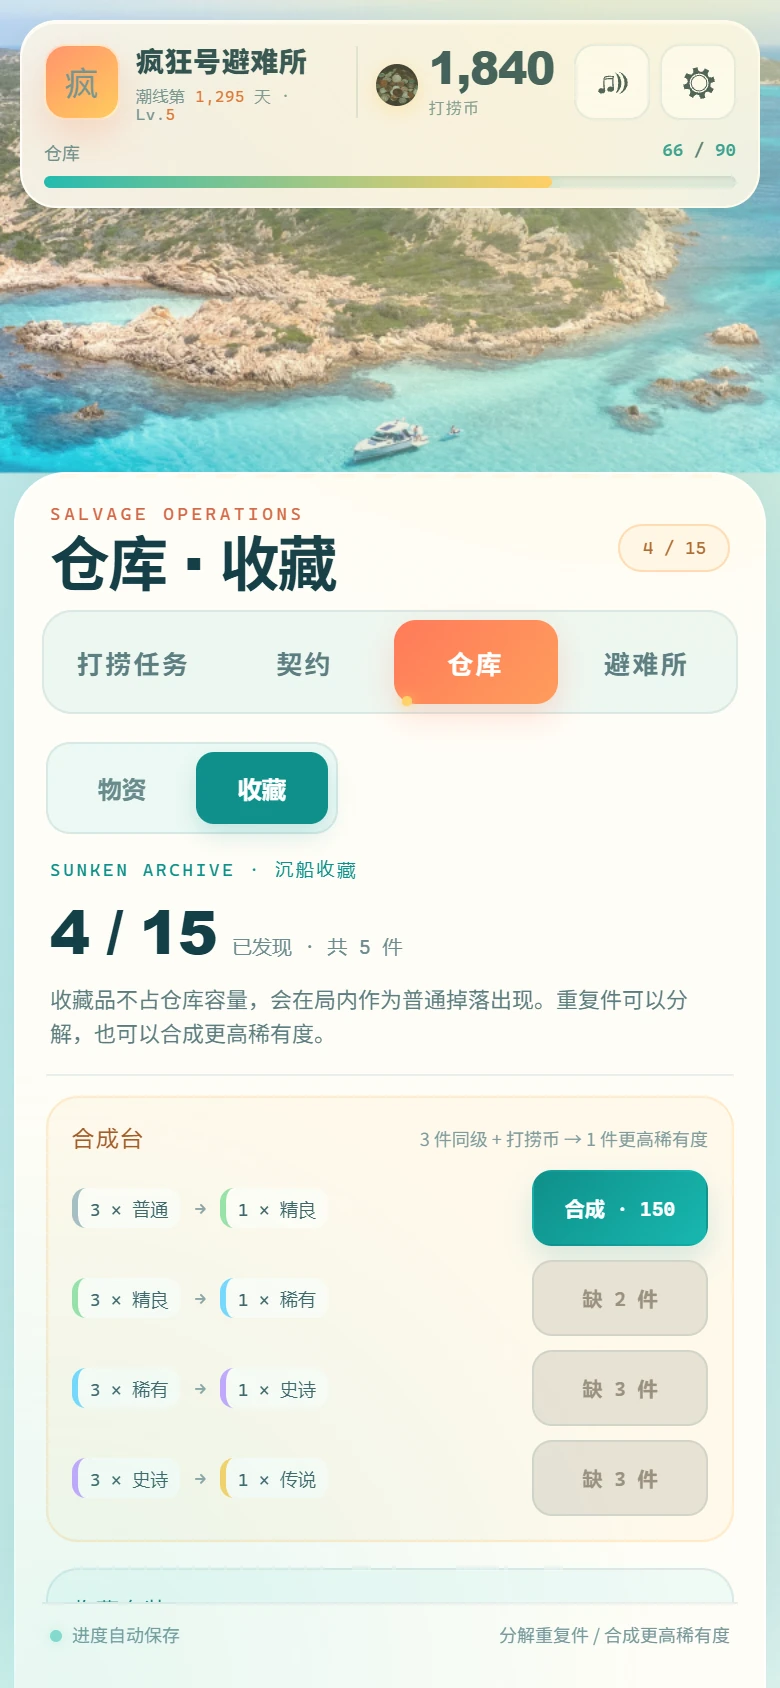
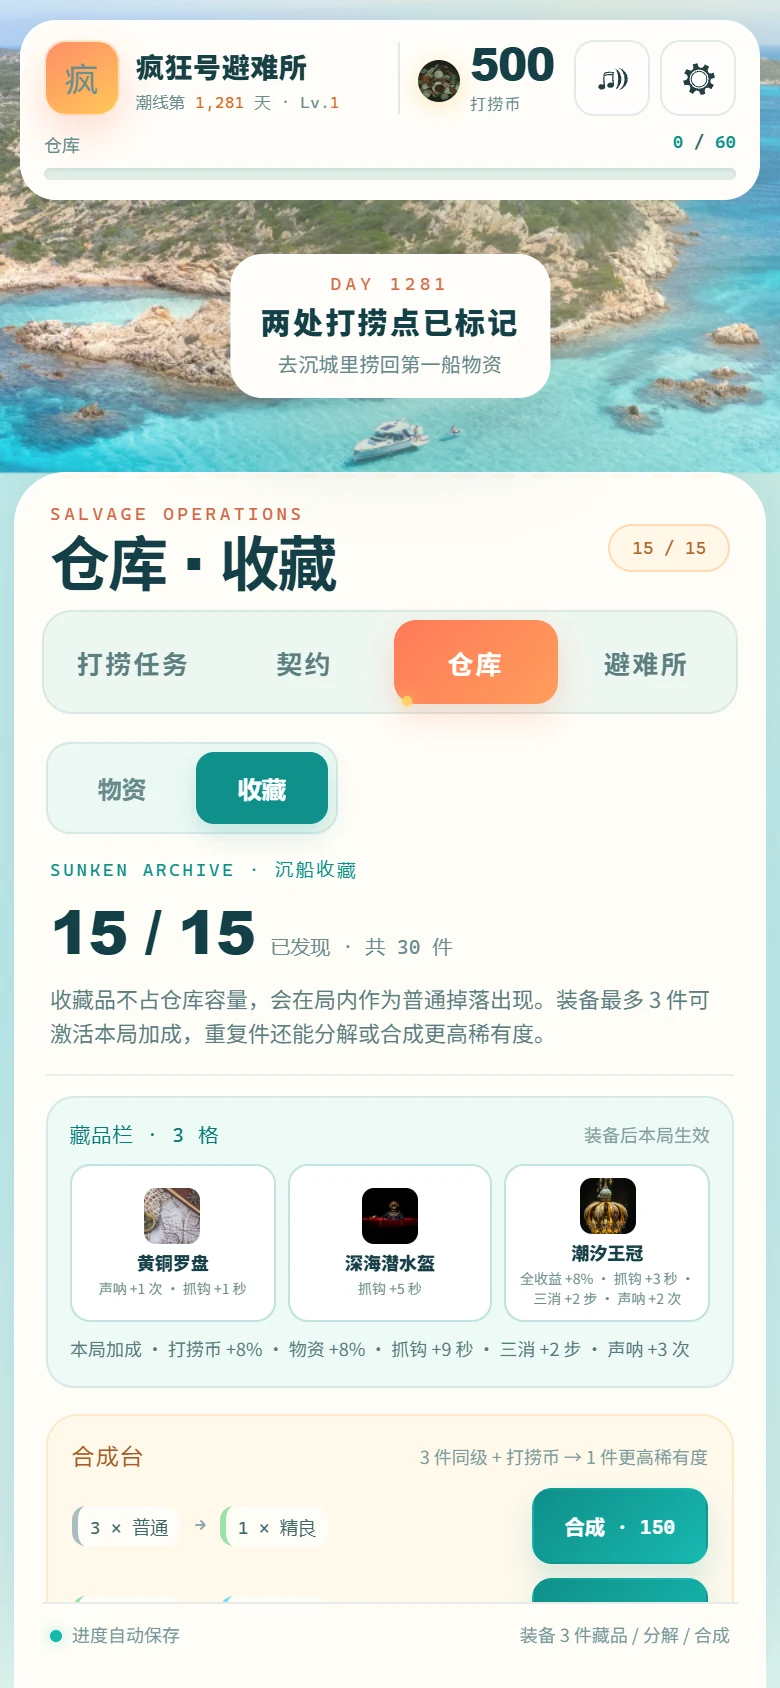
v5.1: 藏品栏装备系统，收藏可用于本局加成

diff --git a/js/hub.js b/js/hub.js
@@ -342,6 +342,7 @@
       filters: 0,
       filterPity: 0,
       collectibles: {},
+      equipped: [],
       contracts: makeContractSet(),
       contractRound: 1,
       contractRerollUsed: false,
@@ -380,6 +381,13 @@
         if (!CW.COLLECTIBLE_MAP[cid]) continue;
         var cnum = Math.floor(Number(raw.collectibles[cid]) || 0);
         if (cnum > 0) data.collectibles[cid] = Math.min(9999, cnum);
+      }
+    }
+    data.equipped = [];
+    if (Array.isArray(raw.equipped)) {
+      for (var eq = 0; eq < raw.equipped.length && data.equipped.length < 3; eq++) {
+        var eid = raw.equipped[eq];
+        if (data.collectibles[eid] > 0 && data.equipped.indexOf(eid) < 0) data.equipped.push(eid);
       }
     }
     data.achievements = {};
@@ -526,17 +534,78 @@
     for (var i = 0; i < MATERIALS.length; i++) sum += this.data.materials[MATERIALS[i].id] || 0;
     return sum;
   };
+  Hub.prototype.collectionRelicBonuses = function () {
+    var out = { credit: 0, mat: 0, time: 0, moves: 0, probes: 0 };
+    var list = this.data.equipped || [];
+    for (var i = 0; i < list.length && i < 3; i++) {
+      var id = list[i];
+      if (!(this.data.collectibles[id] > 0)) continue;
+      var relic = CW.COLLECTIBLE_RELICS[id];
+      if (!relic) continue;
+      out.credit += relic.bonus.credit || 0;
+      out.mat += relic.bonus.mat || 0;
+      out.time += relic.bonus.time || 0;
+      out.moves += relic.bonus.moves || 0;
+      out.probes += relic.bonus.probes || 0;
+    }
+    return out;
+  };
+
+  Hub.prototype.collectionEquip = function (id) {
+    var def = CW.COLLECTIBLE_MAP[id];
+    if (!def || !((this.data.collectibles || {})[id] > 0)) return;
+    if (!Array.isArray(this.data.equipped)) this.data.equipped = [];
+    if (this.data.equipped.indexOf(id) >= 0) {
+      this.collectionUnequip(id);
+      return;
+    }
+    if (this.data.equipped.length >= 3) {
+      this.audio.warn();
+      this.showToast('ARCHIVE FULL', '藏品栏已满', '先卸下一件藏品再装备');
+      return;
+    }
+    this.data.equipped.push(id);
+    this.audio.craft();
+    this.showToast('RELIC EQUIPPED', def.name, CW.COLLECTIBLE_RELICS[id] ? CW.COLLECTIBLE_RELICS[id].label : '已装备');
+    this.saveGame();
+    this.updateUI();
+    this.renderPanel();
+  };
+
+  Hub.prototype.collectionUnequip = function (id) {
+    if (!Array.isArray(this.data.equipped)) return;
+    var at = this.data.equipped.indexOf(id);
+    if (at < 0) return;
+    this.data.equipped.splice(at, 1);
+    this.audio.click();
+    this.saveGame();
+    this.updateUI();
+    this.renderPanel();
+  };
+
+  Hub.prototype.collectionCleanupEquipped = function () {
+    if (!Array.isArray(this.data.equipped)) { this.data.equipped = []; return; }
+    var out = [];
+    for (var i = 0; i < this.data.equipped.length && out.length < 3; i++) {
+      var id = this.data.equipped[i];
+      if ((this.data.collectibles[id] || 0) > 0 && out.indexOf(id) < 0) out.push(id);
+    }
+    this.data.equipped = out;
+  };
+
   Hub.prototype.creditMult = function () {
     var setBonus = this.collectionSetBonuses();
-    return 1 + (this.data.upgrades.workshop || 0) * 0.1 + (this.data.upgrades.purifier || 0) * 0.1 + setBonus.credit;
+    var relic = this.collectionRelicBonuses();
+    return 1 + (this.data.upgrades.workshop || 0) * 0.1 + (this.data.upgrades.purifier || 0) * 0.1 + setBonus.credit + relic.credit;
   };
   Hub.prototype.materialMult = function () {
     var setBonus = this.collectionSetBonuses();
-    return 1 + (this.data.upgrades.sonar || 0) * 0.12 + (this.data.upgrades.purifier || 0) * 0.05 + setBonus.mat;
+    var relic = this.collectionRelicBonuses();
+    return 1 + (this.data.upgrades.sonar || 0) * 0.12 + (this.data.upgrades.purifier || 0) * 0.05 + setBonus.mat + relic.mat;
   };
-  Hub.prototype.hookTime = function () { return 60 + (this.data.upgrades.core || 0) * 5; };
-  Hub.prototype.matchMoves = function () { return 30 + (this.data.upgrades.core || 0) * 2; };
-  Hub.prototype.sonarProbes = function () { return 10 + Math.floor((this.data.upgrades.core || 0) / 2); };
+  Hub.prototype.hookTime = function () { return 60 + (this.data.upgrades.core || 0) * 5 + this.collectionRelicBonuses().time; };
+  Hub.prototype.matchMoves = function () { return 30 + (this.data.upgrades.core || 0) * 2 + this.collectionRelicBonuses().moves; };
+  Hub.prototype.sonarProbes = function () { return 10 + Math.floor((this.data.upgrades.core || 0) / 2) + this.collectionRelicBonuses().probes; };
   Hub.prototype.dayNumber = function () { return 1281 + this.data.runs * 2; };
 
   /* ── resize / layout ─────────────────────────────────────── */
@@ -699,7 +768,7 @@
       this.dom.panelTitle.textContent = this.warehouseView === 'collection' ? '仓库 · 收藏' : '仓库 · 物资';
       if (this.warehouseView === 'collection') {
         this.dom.panelTag.textContent = this.collectionUnique() + ' / ' + CW.COLLECTIBLES.length;
-        this.dom.panelNote.textContent = '分解重复件 / 合成更高稀有度';
+        this.dom.panelNote.textContent = '装备 3 件藏品 / 分解 / 合成';
       } else {
         this.dom.panelTag.textContent = used + ' / ' + cap;
         this.dom.panelNote.textContent = '超出容量的物资会折算成打捞币';
@@ -1081,6 +1150,7 @@
     this.data.collectibles[id] -= 1;
     if (this.data.collectibles[id] <= 0) delete this.data.collectibles[id];
     var gained = this.grantContractReward({ credits: 0, mats: yieldMats });
+    this.collectionCleanupEquipped();
     this.saveGame();
     this.updateUI();
     this.renderPanel();
@@ -1109,7 +1179,13 @@
         source.push({ id: item.id, count: this.data.collectibles[item.id] });
       }
     }
-    source.sort(function (a, b) { return b.count - a.count; });
+    var equippedNow = Array.isArray(this.data.equipped) ? this.data.equipped : [];
+    source.sort(function (a, b) {
+      var ae = equippedNow.indexOf(a.id) >= 0 ? 1 : 0;
+      var be = equippedNow.indexOf(b.id) >= 0 ? 1 : 0;
+      if (ae !== be) return ae - be;
+      return b.count - a.count;
+    });
     var left = 3;
     for (var k = 0; k < source.length && left > 0; k++) {
       var take = Math.min(left, source[k].count);
@@ -1121,6 +1197,7 @@
     var result = pool[(Math.random() * pool.length) | 0];
     this.data.collectibles[result.id] = (this.data.collectibles[result.id] || 0) + 1;
     this.data.credits -= recipe.cost;
+    this.collectionCleanupEquipped();
     this.saveGame();
     this.updateUI();
     this.renderPanel();
@@ -1176,11 +1253,35 @@
     var unique = this.collectionUnique();
     var total = this.collectionTotal();
     var map = this.data.collectibles || {};
+    var equipped = Array.isArray(this.data.equipped) ? this.data.equipped : [];
+    var relic = this.collectionRelicBonuses();
+    var bonusParts = [];
+    if (relic.credit) bonusParts.push('打捞币 +' + Math.round(relic.credit * 100) + '%');
+    if (relic.mat) bonusParts.push('物资 +' + Math.round(relic.mat * 100) + '%');
+    if (relic.time) bonusParts.push('抓钩 +' + relic.time + ' 秒');
+    if (relic.moves) bonusParts.push('三消 +' + relic.moves + ' 步');
+    if (relic.probes) bonusParts.push('声呐 +' + relic.probes + ' 次');
+    var relicHtml = '<div class="relic-board"><div class="relic-head"><span>藏品栏 · 3 格</span><small>装备后本局生效</small></div><div class="relic-slots">';
+    for (var rs = 0; rs < 3; rs++) {
+      var rid = equipped[rs];
+      var rdef = rid ? CW.COLLECTIBLE_MAP[rid] : null;
+      if (rdef) {
+        var rpower = CW.COLLECTIBLE_RELICS[rid];
+        relicHtml += '<button class="relic-slot filled" data-action="equip-collectible" data-id="' + rid + '" title="点击卸下">' +
+          '<img src="' + rdef.icon + '" alt=""><b>' + rdef.name + '</b><span>' + (rpower ? rpower.label : '') + '</span>' +
+        '</button>';
+      } else {
+        relicHtml += '<div class="relic-slot empty"><b>+</b><span>空槽</span></div>';
+      }
+    }
+    relicHtml += '</div><div class="relic-bonus">' +
+      (bonusParts.length ? '本局加成 · ' + bonusParts.join(' · ') : '尚未装备藏品 · 在下方收藏卡点击「装备」') +
+      '</div></div>';
     var html = this.warehouseSwitch() + '<div class="collection-summary">' +
       '<span class="collection-kicker">SUNKEN ARCHIVE · 沉船收藏</span>' +
       '<div class="collection-headline"><b>' + unique + ' / ' + CW.COLLECTIBLES.length + '</b><span>已发现 · 共 ' + total + ' 件</span></div>' +
-      '<p>收藏品不占仓库容量，会在局内作为普通掉落出现。重复件可以分解，也可以合成更高稀有度。</p>' +
-      '</div><div class="craft-board">' +
+      '<p>收藏品不占仓库容量，会在局内作为普通掉落出现。装备最多 3 件可激活本局加成，重复件还能分解或合成更高稀有度。</p>' +
+      '</div>' + relicHtml + '<div class="craft-board">' +
       '<div class="craft-head"><span>合成台</span><small>3 件同级 + 打捞币 → 1 件更高稀有度</small></div><div class="craft-list">';
     for (var r = 0; r < CW.CRAFT_RECIPES.length; r++) {
       var rec = CW.CRAFT_RECIPES[r];
@@ -1226,10 +1327,16 @@
       for (var g = 0; g < group.length; g++) {
         var item = group[g];
         var n = map[item.id] || 0;
-        html += '<article class="collectible-card' + (n ? '' : ' unknown') + '" title="' + item.desc + '" style="--rarity:' + rarity.color + '">' +
+        var isEquipped = equipped.indexOf(item.id) >= 0;
+        var relicInfo = CW.COLLECTIBLE_RELICS[item.id];
+        html += '<article class="collectible-card' + (n ? '' : ' unknown') + (isEquipped ? ' equipped' : '') + '" title="' + item.desc + (relicInfo ? ' · ' + relicInfo.label : '') + '" style="--rarity:' + rarity.color + '">' +
           '<span class="collectible-art"><img src="' + item.icon + '" alt=""></span>' +
-          '<span class="collectible-copy"><b>' + item.name + '</b><em>' + (n ? '×' + n : '未发现') + '</em></span>' +
-          (n ? '<button class="collectible-dismantle" data-action="dismantle" data-id="' + item.id + '" title="分解 1 件为材料">分解</button>' : '') +
+          '<span class="collectible-copy"><b>' + item.name + '</b><em>' + (n ? '×' + n : '未发现') + '</em>' +
+            (n && relicInfo ? '<span class="collectible-power">' + relicInfo.label + '</span>' : '') + '</span>' +
+          (n ? '<span class="collectible-actions">' +
+            '<button class="collectible-equip' + (isEquipped ? ' active' : '') + '" data-action="equip-collectible" data-id="' + item.id + '">' + (isEquipped ? '卸下' : '装备') + '</button>' +
+            '<button class="collectible-dismantle" data-action="dismantle" data-id="' + item.id + '" title="分解 1 件为材料">分解</button>' +
+          '</span>' : '') +
         '</article>';
       }
       html += '</div></section>';
@@ -1688,7 +1795,8 @@
           self.warehouseView = actionEl.getAttribute('data-view');
           self.audio.click();
           self.renderPanel();
-        } else if (action === 'dismantle') self.dismantle(actionEl.getAttribute('data-id'));
+        } else if (action === 'equip-collectible') self.collectionEquip(actionEl.getAttribute('data-id'));
+        else if (action === 'dismantle') self.dismantle(actionEl.getAttribute('data-id'));
         return;
       }
       var tabEl = e.target.closest ? e.target.closest('[data-tab]') : null;

diff --git a/css/style.css b/css/style.css
@@ -1593,6 +1593,32 @@ body::after {
 .collectible-copy em { font-size: 9px; }
 .collectible-dismantle { min-width: 36px; min-height: 32px; border-radius: 8px; font-size: 9px; border-color: rgba(255, 122, 89, 0.24); background: #fff2ec; color: #c46042; }
 .collection-note { font-size: 9px; color: #86a2a3; }
+.relic-board { margin: 10px 0 13px; padding: 11px; border: 1px solid rgba(19, 93, 96, 0.11); border-radius: 14px; background: #eefaf6; }
+.relic-head { display: flex; align-items: baseline; justify-content: space-between; gap: 8px; }
+.relic-head span { font-family: var(--mono); font-size: 10px; letter-spacing: 0.06em; color: #0d7774; }
+.relic-head small { font-size: 9px; color: #7f9b9c; }
+.relic-slots { display: grid; grid-template-columns: repeat(3, minmax(0, 1fr)); gap: 6px; margin-top: 8px; }
+.relic-slot { min-width: 0; min-height: 66px; padding: 6px 5px; border: 1px solid rgba(19, 93, 96, 0.12); border-radius: 10px; background: #fffdf8; text-align: center; color: #3f6468; }
+.relic-slot.filled { border-color: rgba(15, 143, 138, 0.26); background: #fff; }
+.relic-slot img { width: 28px; height: 28px; border-radius: 6px; object-fit: cover; display: block; margin: 0 auto 3px; }
+.relic-slot b { display: block; overflow: hidden; font-size: 9px; color: #173f47; white-space: nowrap; text-overflow: ellipsis; }
+.relic-slot span { display: block; margin-top: 2px; font-size: 7px; line-height: 1.35; color: #6e8d8f; }
+.relic-slot.empty { display: grid; place-items: center; align-content: center; border-style: dashed; background: rgba(255, 253, 248, 0.5); color: #9ab0ae; }
+.relic-slot.empty b { font-family: var(--mono); font-size: 18px; color: #a8bcb8; }
+.relic-bonus { margin-top: 7px; font-size: 9px; line-height: 1.5; color: #567a7d; }
+.collectible-card.equipped { border-color: #18b8b0; background: #f0fbf6; box-shadow: 0 0 0 1px rgba(24, 184, 176, 0.18) inset; }
+.collectible-power { overflow: hidden; font-size: 8px; line-height: 1.35; color: #8a6a33; white-space: nowrap; text-overflow: ellipsis; }
+.collectible-actions { display: flex; flex: 0 0 auto; flex-direction: column; gap: 3px; }
+.collectible-equip { min-width: 36px; min-height: 27px; padding: 0 4px; border: 1px solid rgba(15, 143, 138, 0.22); border-radius: 7px; background: #eaf9f4; color: #0b7774; font-family: var(--mono); font-size: 8px; font-weight: 700; }
+.collectible-equip.active { border-color: #18b8b0; background: #18b8b0; color: #fff; }
+.collectible-equip:hover { background: #dff7ee; }
+.collectible-equip.active:hover { background: #0f8f8a; }
+.collectible-actions .collectible-dismantle { min-width: 36px; min-height: 27px; }
+@media (max-width: 380px) {
+  .relic-slot { min-height: 62px; }
+  .collectible-power { font-size: 7px; }
+  .collectible-equip, .collectible-actions .collectible-dismantle { min-width: 32px; min-height: 26px; font-size: 7px; }
+}
 
 /* Shelter */
 .shelter-head { margin-bottom: 12px; padding: 12px 14px; border: 1px solid rgba(19, 93, 96, 0.1); border-radius: 15px; background: #eefaf6; }

diff --git a/js/collectibles.js b/js/collectibles.js
@@ -78,6 +78,26 @@
     }
   ];
 
+  // Equippable relic effects. Every owned collectible can be placed in one of
+  // three archive slots; the bonus is passive while equipped.
+  CW.COLLECTIBLE_RELICS = {
+    'rusty-watch': { label: '抓钩 +2 秒', bonus: { time: 2 } },
+    'brass-key': { label: '声呐 +1 次', bonus: { probes: 1 } },
+    'sea-bottle': { label: '物资 +2%', bonus: { mat: 0.02 } },
+    'old-coin': { label: '打捞币 +2%', bonus: { credit: 0.02 } },
+    'crew-badge': { label: '三消 +1 步', bonus: { moves: 1 } },
+    'brass-compass': { label: '声呐 +1 次 · 抓钩 +1 秒', bonus: { probes: 1, time: 1 } },
+    'waterproof-camera': { label: '打捞币 +3%', bonus: { credit: 0.03 } },
+    'chart-tube': { label: '抓钩 +4 秒', bonus: { time: 4 } },
+    'copper-telescope': { label: '三消 +2 步', bonus: { moves: 2 } },
+    'silver-musicbox': { label: '打捞币 +5%', bonus: { credit: 0.05 } },
+    'diving-helmet': { label: '抓钩 +5 秒', bonus: { time: 5 } },
+    'ship-bell': { label: '声呐 +2 次', bonus: { probes: 2 } },
+    'captain-log': { label: '抓钩 +2 秒 · 三消 +2 步', bonus: { time: 2, moves: 2 } },
+    'black-box': { label: '打捞币 +6% · 声呐 +1 次', bonus: { credit: 0.06, probes: 1 } },
+    'tide-crown': { label: '全收益 +8% · 抓钩 +3 秒 · 三消 +2 步 · 声呐 +2 次', bonus: { credit: 0.08, mat: 0.08, time: 3, moves: 2, probes: 2 } }
+  };
+
   CW.collectiblesOfRarity = function (rarity) {
     var out = [];
     for (var k = 0; k < COLLECTIBLES.length; k++) {

diff --git a/index.html b/index.html
@@ -133,7 +133,7 @@
       </div>
       <div class="title-footer">
         <span>海岸实景素材 · 本地图片 · 无离线收益</span>
-        <span>v5.0 · PURE STATIC</span>
+        <span>v5.1 · PURE STATIC</span>
       </div>
     </section>
 
@@ -218,7 +218,7 @@
         <button class="btn ghost wide" data-action="guide">查看玩法说明</button>
         <button id="reset-save" class="btn danger wide" data-action="reset-save">清空避难所</button>
         <p class="modal-note">清空会删除打捞币、物资和所有扩建，无法撤销。再次点击确认。</p>
-        <p class="version">疯狂水世界 · v5.0 · 本地图片素材 + 程序化特效，无远程依赖</p>
+        <p class="version">疯狂水世界 · v5.1 · 本地图片素材 + 程序化特效，无远程依赖</p>
       </div>
     </section>
 
@@ -292,6 +292,7 @@
   </main>
 </body>
 </html>
+
 
 
 

diff --git a/js/arcade.js b/js/arcade.js
@@ -569,6 +569,9 @@
     if (this.permit) {
       chips += '<span class="summary-chip permit" style="--tone:' + this.permit.color + '">许可 · ' + this.permit.name + '</span>';
     }
+    if (this.hub.data.equipped && this.hub.data.equipped.length) {
+      chips += '<span class="summary-chip relic" style="--tone:#18b8b0">藏品 · ' + this.hub.data.equipped.length + ' 件</span>';
+    }
     for (var i = 0; i < MATERIALS.length; i++) {
       var m = MATERIALS[i];
       var n = this.applied.stored[m.id] || 0;

diff --git a/DESIGN.md b/DESIGN.md
@@ -1,6 +1,6 @@
 # 疯狂水世界 · 游戏设计文档
 
-> 版本：5.0 · 类型：海岸打捞 / 小游戏合集 / 轻松经营  
+> 版本：5.1 · 类型：海岸打捞 / 小游戏合集 / 轻松经营  
 > 平台：桌面与移动端浏览器 · 单局 1–3 分钟 · 无离线收益
 
 ---
@@ -292,6 +292,10 @@ HUD 以「末日第 1,281 天」计量时间，每完成一局打捞推进 2 天
 - 三个小游戏都能在同一局里同时产出消耗品与收藏品。
 - 稀有度权重：普通 52 / 精良 27 / 稀有 13 / 史诗 6 / 传说 2。
 - 仓库与收藏合并为一个「仓库」标签，内部用「物资 / 收藏」切换。
+- 每件收藏都有独立的**出航加成**；存档新增 `equipped: [id, id, id]`，最多装备 3 件，不消耗本体。
+- 藏品栏 3 格：普通偏单项（+2 秒 / +1 声呐 / +1 步 / +2% 收益），精良与稀有提高数值，史诗与传说提供复合加成。
+- 装备加成直接进入 `hookTime / matchMoves / sonarProbes / creditMult / materialMult`，与套装、海况、出航许可相乘或相加。
+- 分解或合成消耗掉装备中的最后一件时，自动从藏品栏移除。
 - 重复收藏可分解为材料：普通 2 铁 + 1 纤维；精良 3 铁 + 1 芯片；稀有 4 铁 + 1 燃料 + 2 芯片；史诗 / 传说更高。
 - 合成台：3 件同稀有度 + 打捞币 → 1 件下一稀有度；费用 150 / 400 / 1,000 / 2,500。
 - 合成随机产出下一稀有度的任意收藏；重复件优先消耗数量最多的藏品。
@@ -451,6 +455,7 @@ CREDITS.md                        图片与图标授权
 ---
 
 所有核心数值集中在 `js/hub.js`、`js/arcade.js`、`js/match.js` 顶部，方便直接调整并重新平衡。过滤器出现率分别在 `HookGame.buildField`（12%）和 `MatchGame.finish`（5%）中调整。
+
 
 
 

diff --git a/README.md b/README.md
@@ -180,7 +180,20 @@
   - 三消：每盘固定混入 2 个收藏品方块，和废料方块一样消除获得。
   - 声呐：每个普通货箱约 15% 直接是收藏品，找到货箱即获得。
 - 因此三个小游戏里都能同时刷出消耗品和收藏品，收藏品不是独立掉落事件。
-- 收藏品**不占仓库容量**，重复件可以分解或合成。
+- 收藏品**不占仓库容量**；每件藏品都有独立的**出航加成**，最多装备 3 件。
+- 例如锈蚀怀表 +2 秒、旧船门钥声呐 +1 次、海水玻璃瓶物资 +2%、潮汐王冠全收益 +8% 且三项次数都增加。
+- 装备的加成直接计入抓钩时长、三消步数、声呐次数和结算倍率，与套装/海况/许可叠加。
+- 重复件可以分解或合成；被分解或合成消耗掉的藏品会自动卸下。
+
+### 藏品栏
+
+- 在「仓库 → 收藏」顶部选择 3 件已拥有的藏品装备。
+- 不消耗藏品本体，可以随时卸下或替换。
+- 装备 3 件后，收藏卡、藏品栏和本局属性都会同步变化。
+- 没有离线收益，也不需要等待时间。
+
+### 分解
+
 - 重复件可以**分解为材料**：
 
 | 稀有度 | 分解产出 |

diff --git a/ROADMAP.md b/ROADMAP.md
@@ -2,7 +2,15 @@
 
 > 每 2 小时一轮。每轮先列计划，再做一项以上有意义的改动，并完成测试与文档更新。
 
-## 当前版本：v5.0
+## 当前版本：v5.1
+
+### v5.1 · 藏品栏与出航加成
+
+- 每件收藏新增独立出航加成；仓库收藏页新增 3 格藏品栏。
+- 最多装备 3 件，可随时卸下/替换，不消耗藏品本体。
+- 装备加成进入抓钩时长、三消步数、声呐次数、打捞币/物资倍率，与套装、海况、许可叠加。
+- 分解或合成消耗掉装备中的最后一件时自动卸下。
+- 存档新增 `equipped`，旧存档默认空；结算显示藏品数量。
 
 ### v5.0 · 纯静态与性能重构
 
@@ -158,6 +166,7 @@
 4. 更新版本号、README / DESIGN、必要的预览图和 `CREDITS.md`。
 5. 回复按「计划 → 改动 → 测试 → 下一轮候选」输出。
 6. 保持：**无离线收益、无体力、无远程运行时依赖**。
+
 
 
 
